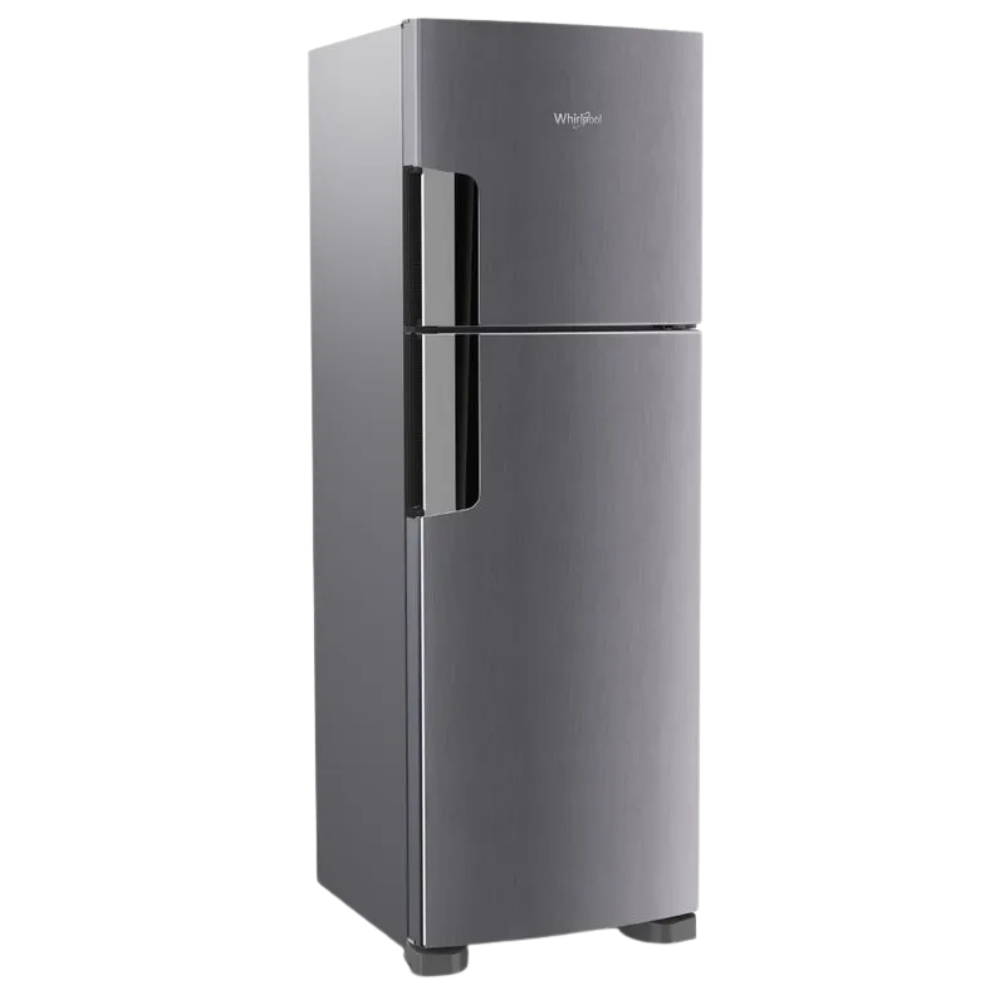
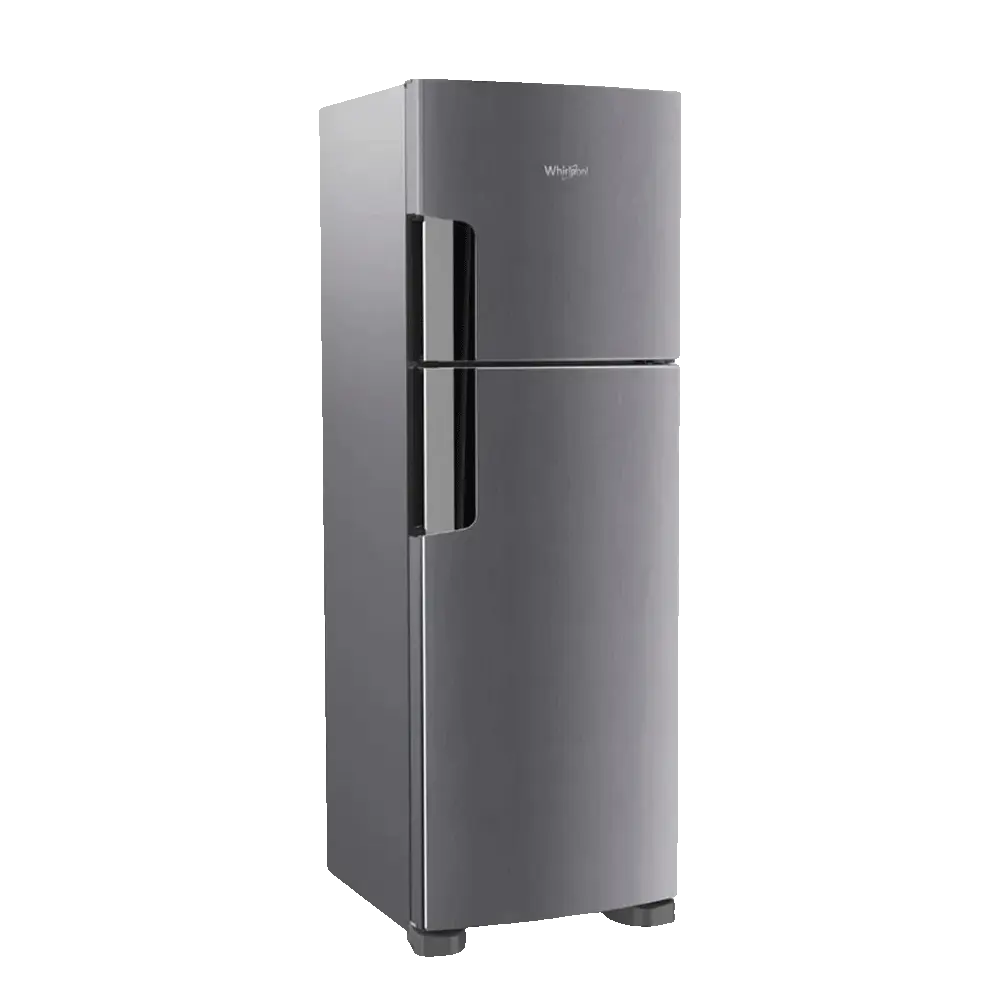
upd/images_webp/pgianferro

Changed region(s): [[0.31, 0.0, 0.713, 0.992], [0.558, 0.155, 0.589, 0.186]]

diff --git a/index.html b/index.html
@@ -149,7 +149,7 @@
                 <!-- Slide 1 -->
                 <div class="carousel-item active">
                     <div class="slide-bg"
-                        style="background-image: url('img/banner/servicio_tecnico_whirpool_slide_1.jpg');">
+                        style="background-image: url('img/banner/servicio_tecnico_whirpool_slide_1.webp');">
                         <div class="overlay"></div>
                         <div class="carousel-caption text-center text-white">
                             <h2>Servicio Técnico Oficial Whirlpool</h2>
@@ -162,7 +162,7 @@
                 <!-- Slide 2 -->
                 <div class="carousel-item">
                     <div class="slide-bg"
-                        style="background-image: url('img/banner/servicio_tecnico_whirpool_slide_2.jpg');">
+                        style="background-image: url('img/banner/servicio_tecnico_whirpool_slide_2.webp');">
                         <div class="overlay"></div>
                         <div class="carousel-caption text-center text-white">
                             <h2>Heladeras</h2>
@@ -333,7 +333,7 @@
                 <!-- Servicio 1 -->
                 <div class="col-md-4">
                     <div class="card shadow-sm border-warning border-2">
-                        <img src="img/servicios/heladeras-whirpool-service.png" class="card-img-top"
+                        <img src="img/servicios/heladeras-whirpool-service.webp" class="card-img-top"
                             alt="Heladeras Whirlpool">
                         <div class="card-body text-center">
                             <h5 class="card-title fw-bold">Servicio Técnico Heladeras Whirlpool</h5>
@@ -401,7 +401,7 @@
                 <!-- Servicio 3 -->
                 <div id="servicios3" class="col-md-4">
                     <div class="card shadow-sm border-warning border-2">
-                        <img src="img/servicios/lavavajillas-whirlpool-service.png" class="card-img-top"
+                        <img src="img/servicios/lavavajillas-whirlpool-service.webp" class="card-img-top"
                             alt="Lavavajillas Whirlpool">
                         <div class="card-body text-center">
                             <h5 class="card-title fw-bold">Servicio Técnico Lavavajillas Whirlpool</h5>

diff --git a/styles.css b/styles.css
@@ -360,7 +360,7 @@ meta[name="format-detection"] {
 ---------------------------------------- */
 
 .caracteristicas-servicio {
-  background-image: url("img/banner/heladeras-whirpool-service-att.jpg");
+  background-image: url("img/banner/heladeras-whirpool-service-att.webp");
   background-size: cover;
   background-position: center;
   position: relative;
